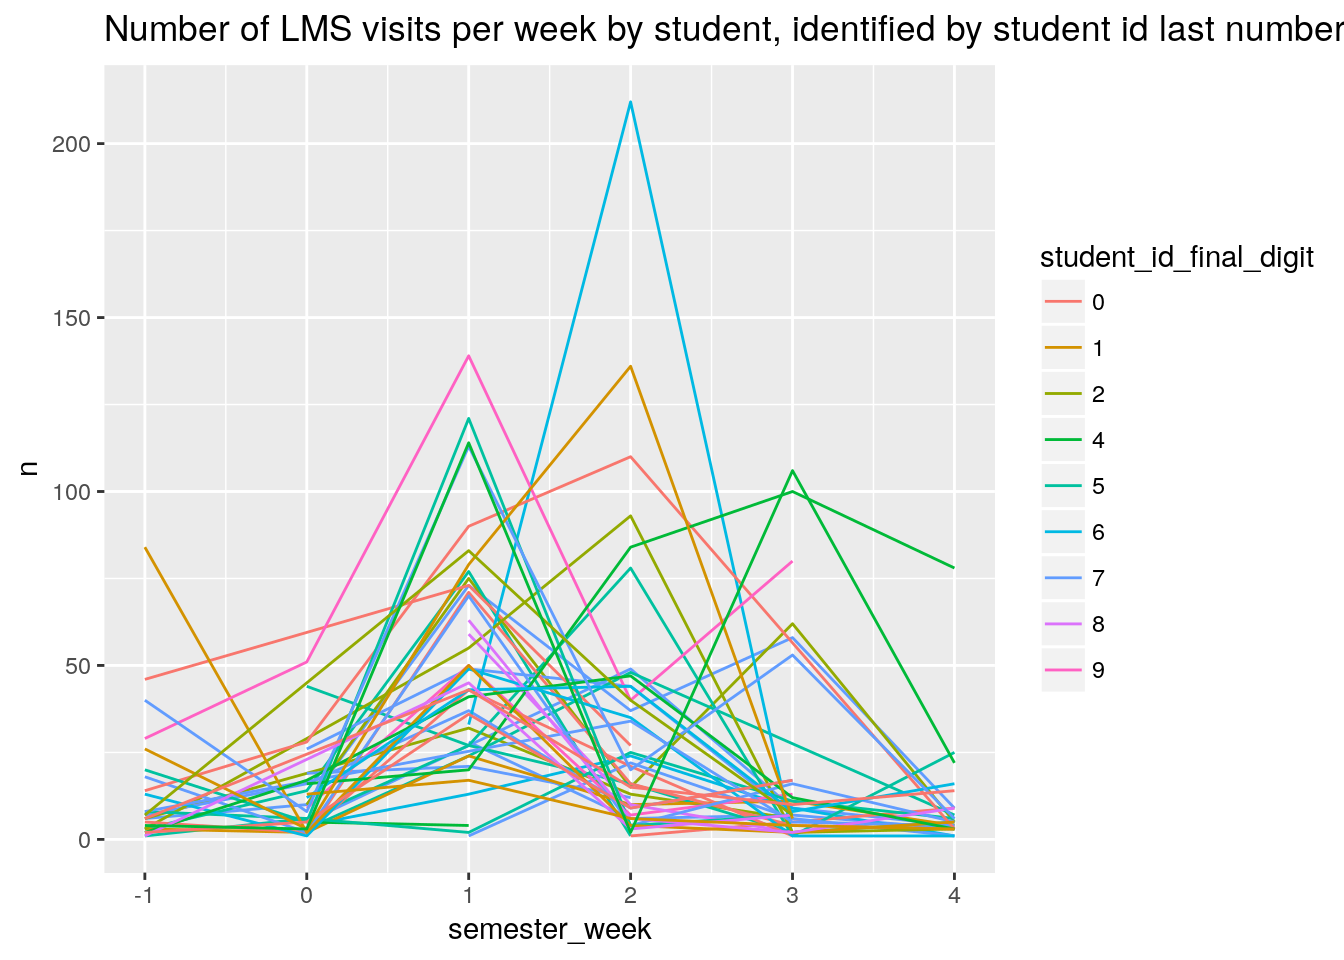
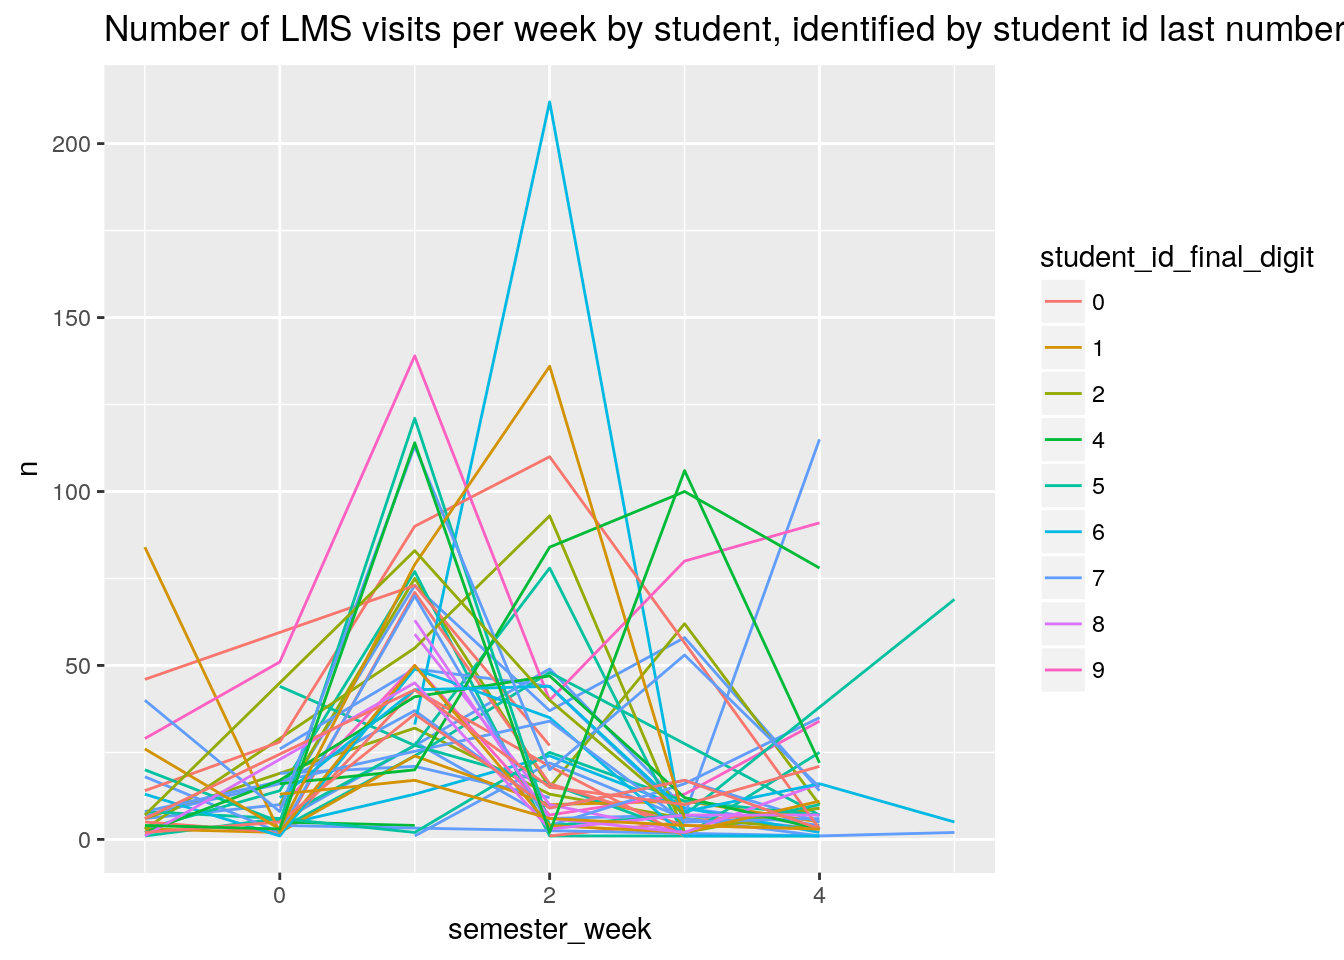
Build site.

diff --git a/docs/processHSILogs.html b/docs/processHSILogs.html
@@ -361,7 +361,7 @@ div.section {
 </details>
 </li>
 <li>
-<p><details> <summary> <strong style="color:blue;">✔</strong> <strong>Repository version:</strong> <a href="https://github.com/dewoller/LMS_reports/tree/3b3ecd56f6be7a12dba08f8e3f22c37fb7455c0a" target="_blank">3b3ecd5</a> </summary></p>
+<p><details> <summary> <strong style="color:blue;">✔</strong> <strong>Repository version:</strong> <a href="https://github.com/dewoller/LMS_reports/tree/fa85df83f4ec98453c0e9fa235ce4856baf818c3" target="_blank">fa85df8</a> </summary></p>
 Great! You are using Git for version control. Tracking code development and connecting the code version to the results is critical for reproducibility. The version displayed above was the version of the Git repository at the time these results were generated. <br><br> Note that you need to be careful to ensure that all relevant files for the analysis have been committed to Git prior to generating the results (you can use <code>wflow_publish</code> or <code>wflow_git_commit</code>). workflowr only checks the R Markdown file, but you know if there are other scripts or data files that it depends on. Below is the status of the Git repository when the results were generated:
 <pre><code>
 Ignored files:
@@ -397,6 +397,23 @@ Message
 </tr>
 </thead>
 <tbody>
+<tr>
+<td style="text-align:left;">
+html
+</td>
+<td style="text-align:left;">
+<a href="https://cdn.rawgit.com/dewoller/LMS_reports/ac5ead1bdca1077259e17f664049a0050b4402a1/docs/processHSILogs.html" target="_blank">ac5ead1</a>
+</td>
+<td style="text-align:left;">
+Dennis Wollersheim
+</td>
+<td style="text-align:left;">
+2018-08-27
+</td>
+<td style="text-align:left;">
+Build site.
+</td>
+</tr>
 <tr>
 <td style="text-align:left;">
 html
@@ -589,9 +606,9 @@ first IHB trial
 </ul>
 <p></details></p>
 <hr />
-<div id="marks-for-the-class-logs_2018-him4ihsbu-2him5hsibu-2_20180823-0959.csv" class="section level1">
-<h1>Marks for the class logs_2018-HIM4IHS(BU-2)HIM5HSI(BU-2)_20180823-0959.csv</h1>
-<p>For the period : 2018-07-16 08:01:00, 2018-08-23 09:42:00</p>
+<div id="marks-for-the-class-logs_2018-him4ihsbu-2him5hsibu-2_20180827-1232.csv" class="section level1">
+<h1>Marks for the class logs_2018-HIM4IHS(BU-2)HIM5HSI(BU-2)_20180827-1232.csv</h1>
+<p>For the period : 2018-07-16 08:01:00, 2018-08-27 12:10:00</p>
 <div id="overall-lms-participation-by-student" class="section level2">
 <h2>Overall LMS participation by student</h2>
 <p><img src="figure/processHSILogs.Rmd/introduction-1.png" width="672" style="display: block; margin: auto;" /></p>
